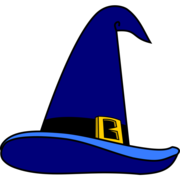
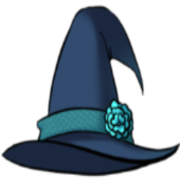
블로그 심볼 교체

diff --git a/src/components/atoms/logo/index.tsx b/src/components/atoms/logo/index.tsx
@@ -6,10 +6,11 @@ function Logo() {
   return (
     <Image 
       className={styles.logo} 
-      src='/witch-hat.svg' 
-      alt='logo' 
-      width={40} 
-      height={40} 
+      src='/witch-new-hat.svg'
+      alt='logo'
+      width={50} 
+      height={50} 
+      placeholder='empty'
     />
   );
 }

diff --git a/src/components/molecules/blogSymbol/styles.module.css b/src/components/molecules/blogSymbol/styles.module.css
@@ -14,7 +14,7 @@
   display:flex;
   flex-direction:row;
   align-items:center;
-  gap:5px;
+  gap:0.25rem;
   width:100%;
   height:100%;
 }
